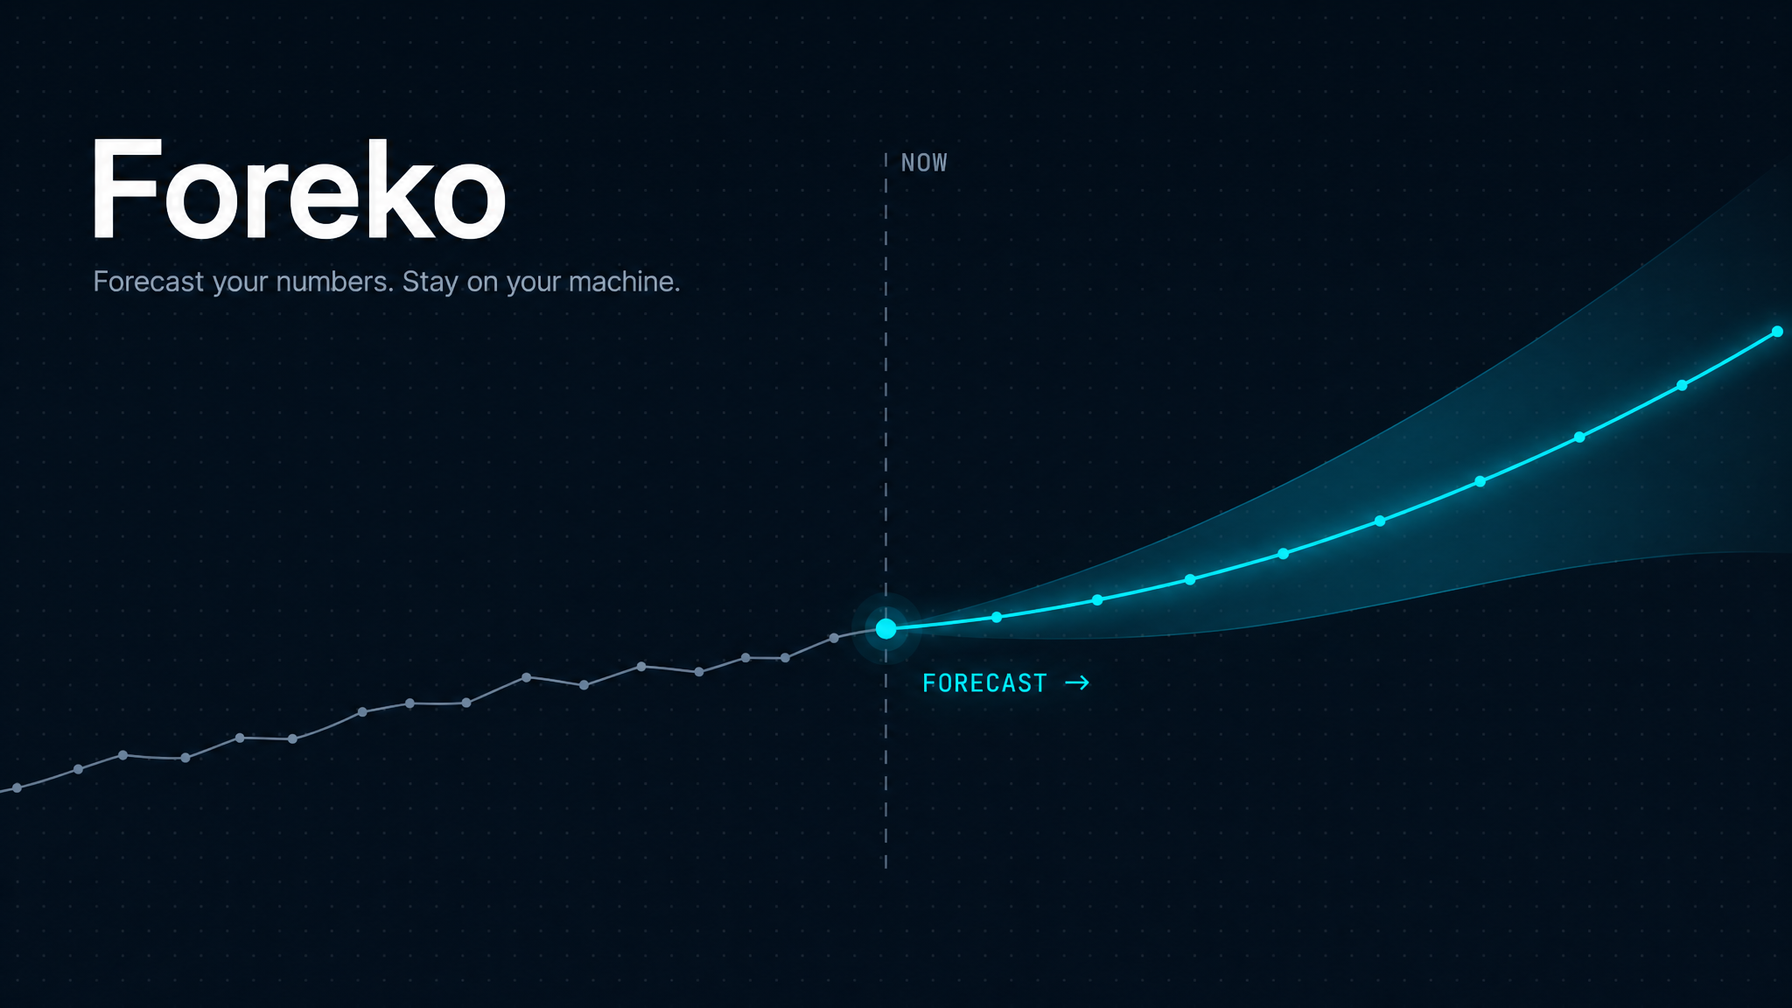
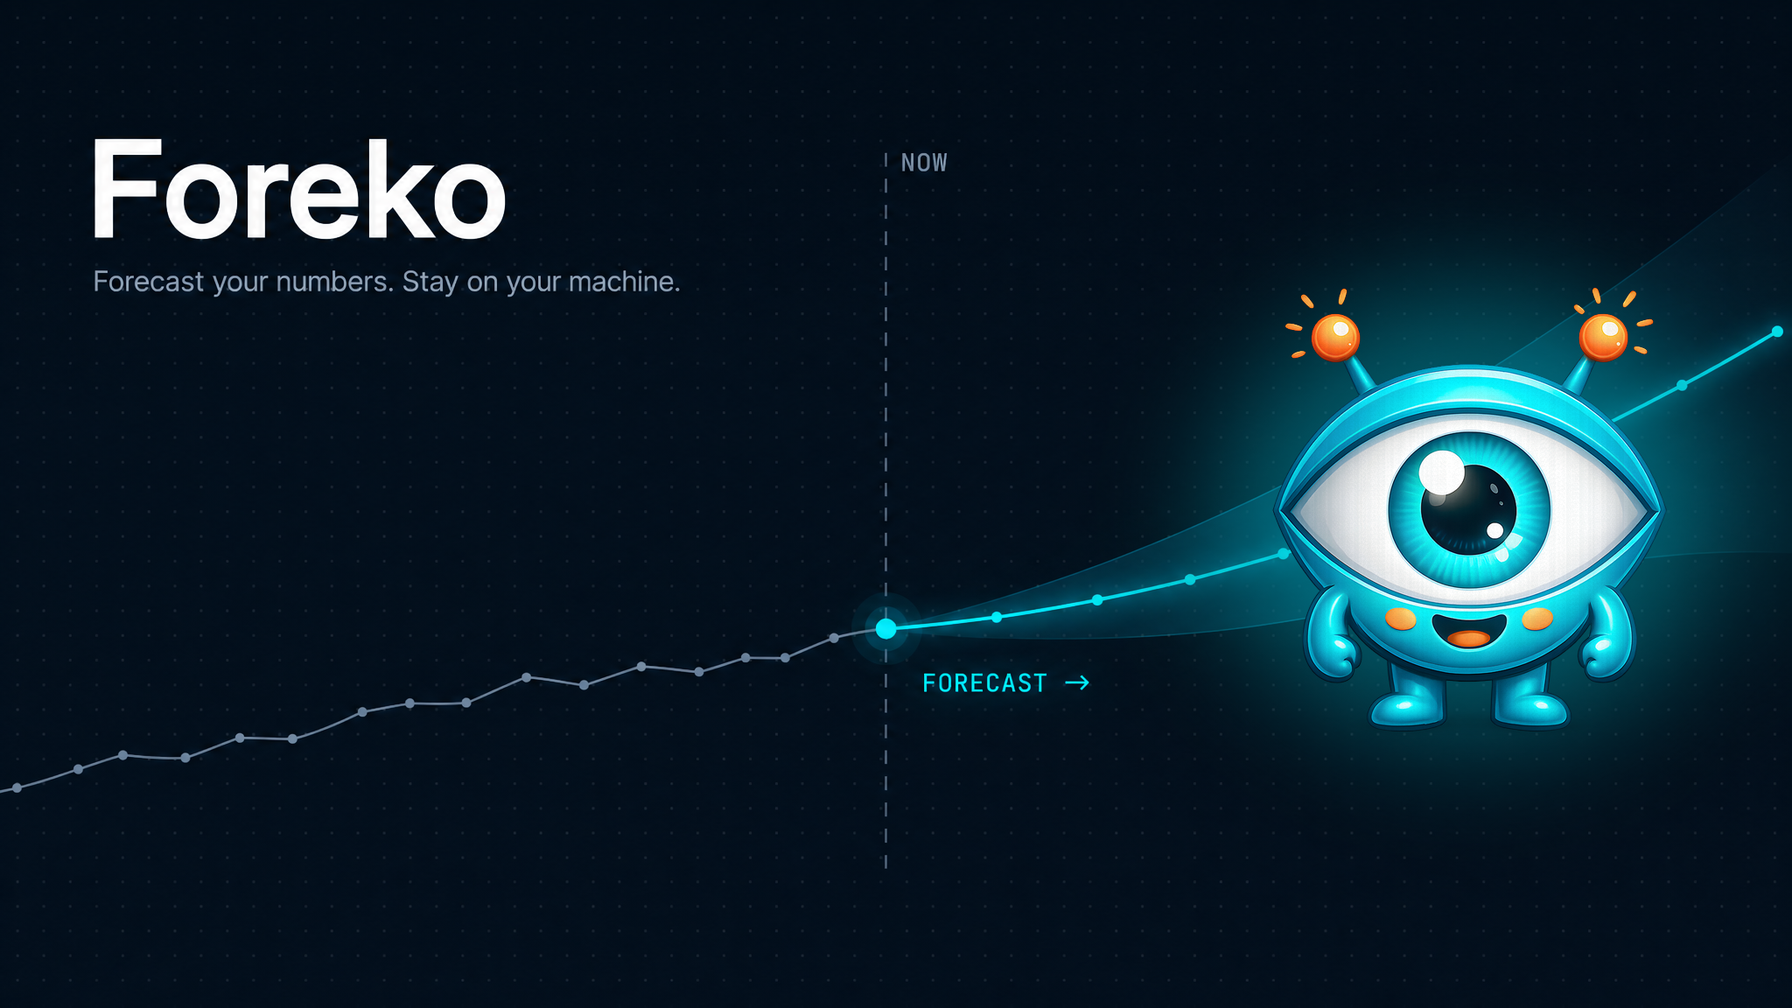
chore: relicense to Apache 2.0 and add the mascot to the README hero
- Relicense Foreko from MIT to Apache 2.0: LICENSE (full text), NOTICE,
  pyproject, CLAUDE.md, index.html OG tag, hero build script + SVG, and
  README badges/FAQ. Third-party dependency rows in NOTICE keep their own
  licenses (FastAPI MIT, React MIT, ...) since those state each dep's license.
- Composite the Foreko mascot into the README hero, sitting at the forecast
  horizon with a cyan halo that blends into the forecast line
- README: add a one-line positioning sentence under the nav

Changed region(s): [[0.6562, 0.246, 0.9688, 0.7688]]

diff --git a/app/frontend/index.html b/app/frontend/index.html
@@ -6,7 +6,7 @@
     <meta name="theme-color" content="#030712" />
     <meta name="description" content="Foreko is a free, local-first time-series forecasting workbench. Google's TimesFM and a LightGBM baseline run side by side on your own data, with backtesting, diagnostics, factor analysis, anomaly detection, and what-if scenarios. Nothing leaves your machine." />
     <meta property="og:title" content="Foreko, local-first time-series forecasting" />
-    <meta property="og:description" content="Forecast your numbers and keep them on your machine. TimesFM and LightGBM side by side, backtests, diagnostics, and what-if scenarios. Free and open source, MIT licensed." />
+    <meta property="og:description" content="Forecast your numbers and keep them on your machine. TimesFM and LightGBM side by side, backtests, diagnostics, and what-if scenarios. Free and open source, Apache 2.0 licensed." />
     <meta property="og:image" content="/foreko-logo.png" />
     <meta property="og:type" content="website" />
     <title>Foreko</title>

diff --git a/README.md b/README.md
@@ -4,7 +4,7 @@
 
 <br/>
 
-[![License: MIT](https://img.shields.io/badge/License-MIT-00B8C9.svg?style=flat-square)](LICENSE)
+[![License: Apache 2.0](https://img.shields.io/badge/License-Apache_2.0-00B8C9.svg?style=flat-square)](LICENSE)
 [![Python 3.10+](https://img.shields.io/badge/Python-3.10%2B-3776AB.svg?style=flat-square&logo=python&logoColor=white)](https://www.python.org/)
 [![Node 20+](https://img.shields.io/badge/Node-20%2B-339933.svg?style=flat-square&logo=node.js&logoColor=white)](https://nodejs.org/)
 [![FastAPI](https://img.shields.io/badge/FastAPI-009688.svg?style=flat-square&logo=fastapi&logoColor=white)](https://fastapi.tiangolo.com/)
@@ -22,6 +22,11 @@
 <br/>
 
 <a href="#install"><b>Install</b></a> &nbsp;·&nbsp; <a href="#the-pages"><b>Screenshots</b></a> &nbsp;·&nbsp; <a href="#the-models"><b>Models</b></a> &nbsp;·&nbsp; <a href="#architecture"><b>Architecture</b></a> &nbsp;·&nbsp; <a href="#faq"><b>FAQ</b></a>
+
+<br/>
+
+A free, local-first forecasting workbench. Point it at a CSV and get a trustworthy
+forecast with uncertainty bands, a recommended model, and plain-English diagnostics.
 
 </div>
 
@@ -63,10 +68,10 @@ prediction-interval calibration. Every confidence claim is measurable.
 </td>
 <td width="50%" valign="top">
 
-### MIT licensed, forever free
+### Apache 2.0, forever free
 
 No paid tier, no upsell, no commercial gating. The whole app is in this
-repo and runs in two `npm` commands.
+repo, under a permissive Apache 2.0 license.
 
 </td>
 </tr>
@@ -403,8 +408,8 @@ features. Use whichever path you prefer.
 <summary><b>Can I use Foreko commercially?</b></summary>
 <br/>
 
-Yes. MIT license. Build whatever you want on top. Foreko itself will
-never have a paid tier.
+Yes. Apache 2.0 license. Build whatever you want on top. Foreko itself
+will never have a paid tier.
 
 </details>
 
@@ -464,7 +469,7 @@ forecast comparison will pick it up.
 ## License & attribution
 
 <p align="left">
-  <a href="LICENSE"><img src="https://img.shields.io/badge/License-MIT-00B8C9.svg?style=for-the-badge"/></a>
+  <a href="LICENSE"><img src="https://img.shields.io/badge/License-Apache_2.0-00B8C9.svg?style=for-the-badge"/></a>
 </p>
 
 Builds on: